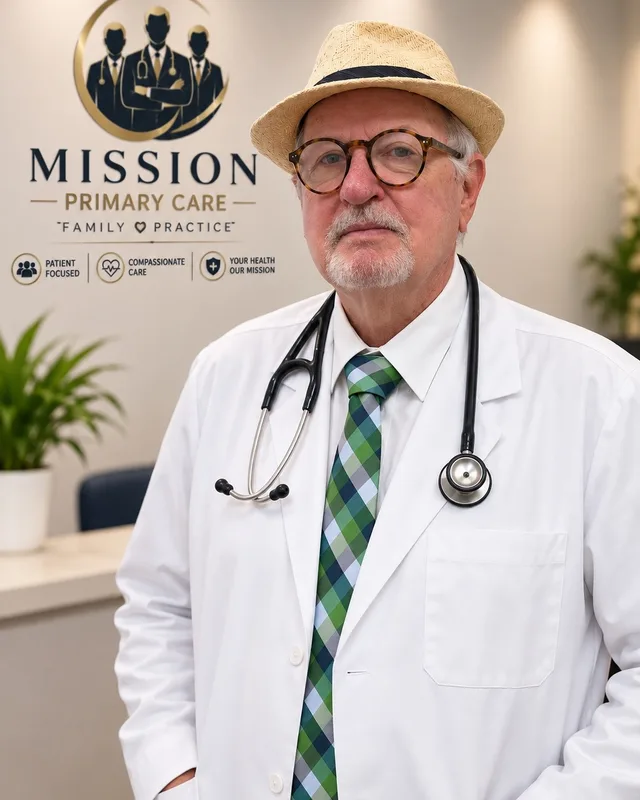
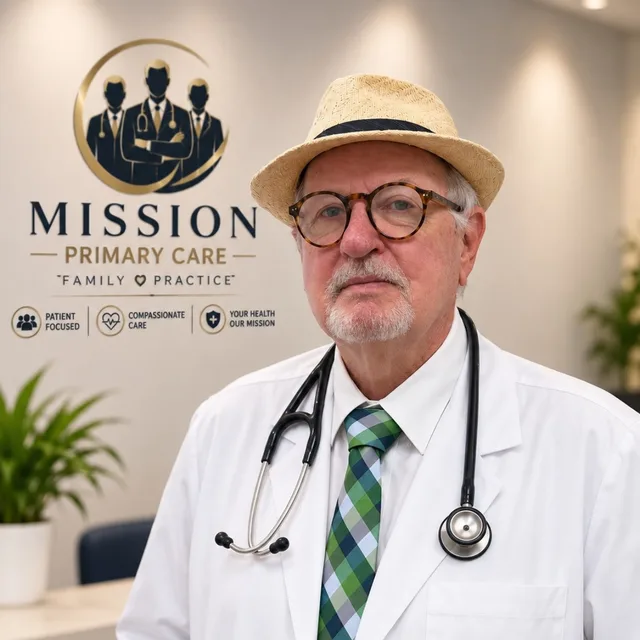
feat: rebuild the footer around link groups, refresh the portraits
The footer follows the reference layout: a photographic ground under a
navy wash, the brand and call to action in a wide first column, then
three columns that each stack two groups. Links go from 11 to 21, since
every service page and clinic is now reachable from the bottom of any
page.

The ground is a heavily blurred clinic frame. The unblurred photograph
put a half-lit face behind the text, which read badly. The wash is a
gradient, heaviest on the left so the logo knockout still blends against
near enough the flat surface colour. Its lightest point over a white
pixel leaves body text at 5.15:1, but the bottom bar had to come up from
#a2957c: fine at 5.51:1 on flat navy, only 3.57:1 with a photograph
behind it.

No social row and no subscribe form. The practice has no accounts on
file and no mail provider, and neither a link to an unverified account
nor a form that silently drops an address is worth shipping.

The five portraits are replaced from the newer square sources. The card
is square, so these need no cropping where the 2:3 originals did, and
each file is a few kilobytes smaller.

diff --git a/app/globals.css b/app/globals.css
@@ -32,7 +32,7 @@ button:focus-visible, a:focus-visible, input:focus-visible, select:focus-visible
 .resources-section { padding: 110px 0; background: var(--surface-dark); color: #eadfca; }.resource-grid { display: grid; grid-template-columns: .9fr 1.1fr; gap: 120px; }.resources-section h2 { color: #fff; }.resources-section .eyebrow { color: #d8ad58; }.resources-section p:not(.eyebrow) { color: #d9cdb4; line-height: 1.7; max-width: 405px; font-size: 16px; margin: 25px 0 30px; }.resource-list { border-top: 1px solid rgba(234,223,202,.28); }.resource-list > div { display: flex; align-items: center; gap: 25px; padding: 25px 0; border-bottom: 1px solid rgba(234,223,202,.28); }.resource-list > div > span:nth-child(2) { flex: 1; }.resource-list strong, .resource-list small { display: block; }.resource-list strong { color: #fff; font-size: 17px; }.resource-list small { color: #c3b493; margin-top: 7px; font-size: 14px; }.resource-number { color: #d8ad58; font-size: 14px; }.resource-list svg { color: #d8ad58; }
 .faq-section { padding: 110px 0; }.faq-grid { display: grid; grid-template-columns: .7fr 1.3fr; gap: 120px; }.faq-section h2 { margin-bottom: 22px; }.faq-section > .shell > div:first-child > p:not(.eyebrow) { color: var(--muted-foreground); font-size: 16px; line-height: 1.6; margin-bottom: 24px; }.faq-list { border-top: 1px solid var(--border); }.faq-item { border-bottom: 1px solid var(--border); }.faq-item button { width: 100%; display: flex; justify-content: space-between; gap: 15px; border: 0; background: transparent; cursor: pointer; padding: 22px 0; color: #181818; font-size: 18px; font-weight: 700; text-align: left; }.faq-item button svg { transition: transform .2s; }.faq-item.active button svg { transform: rotate(180deg); color: var(--primary); }.faq-item p { color: var(--muted-foreground); line-height: 1.7; font-size: 15px; margin: -7px 35px 22px 0; }
 .cta-section { padding: 65px 0; background: #eadfca; }.cta-inner { justify-content: space-between; }.cta-section h2 { font-size: 42px; }.cta-section .eyebrow { margin-bottom: 12px; }
-footer { position: relative; background: var(--surface-dark); padding: 70px 0 25px; } footer .footer-grid, .homepage-footer .footer-grid { display: grid; grid-template-columns: 1.3fr .7fr .9fr 1.1fr; align-items: start; gap: 45px; padding-bottom: 60px; } footer .footer-grid > div, .homepage-footer .footer-grid > div { display: flex; flex-direction: column; gap: 11px; } footer .footer-grid > div:last-child, .homepage-footer .footer-grid > div:last-child { display: flex; } footer:before { content: ''; position: absolute; left: 0; right: 0; top: 0; height: 2px; background: var(--accent); }.footer-grid { display: grid; grid-template-columns: 1.3fr .7fr .9fr 1.1fr; gap: 45px; padding-bottom: 60px; }.footer-grid > div { display: flex; flex-direction: column; gap: 11px; }.footer-brand { display: grid; place-items: center; width: 172px; height: 149px; margin-bottom: 8px; flex-shrink: 0; overflow: hidden; }.footer-bottom a { display: inline-flex; align-items: center; gap: 6px; white-space: nowrap; }.footer-brand img { width: 160px; height: 149px; object-fit: contain; mix-blend-mode: lighten; }.footer-grid p, .footer-grid span { color: #c3b493; font-size: 14px; line-height: 1.6; margin: 0; }.footer-grid strong { color: #fff; font-size: 14px; margin-bottom: 7px; }.footer-grid a { color: #d9cdb4; font-size: 14px; }.footer-grid a:hover { color: var(--accent); }.footer-bottom { border-top: 1px solid rgba(234,223,202,.16); padding-top: 20px; justify-content: space-between; color: #a2957c; font-size: 13px; }
+footer { position: relative; isolation: isolate; overflow: hidden; background: var(--surface-dark); padding: 70px 0 25px; } footer .footer-grid, .homepage-footer .footer-grid { display: grid; grid-template-columns: 1.3fr .7fr .9fr 1.1fr; align-items: start; gap: 45px; padding-bottom: 60px; } footer .footer-grid > div, .homepage-footer .footer-grid > div { display: flex; flex-direction: column; gap: 11px; } footer .footer-grid > div:last-child, .homepage-footer .footer-grid > div:last-child { display: flex; } footer:before { content: ''; position: absolute; left: 0; right: 0; top: 0; height: 2px; background: var(--accent); }.footer-grid { display: grid; grid-template-columns: 1.3fr .7fr .9fr 1.1fr; gap: 45px; padding-bottom: 60px; }.footer-grid > div { display: flex; flex-direction: column; gap: 11px; }.footer-brand { display: grid; place-items: center; width: 172px; height: 149px; margin-bottom: 8px; flex-shrink: 0; overflow: hidden; }.footer-bottom a { display: inline-flex; align-items: center; gap: 6px; white-space: nowrap; }.footer-brand img { width: 160px; height: 149px; object-fit: contain; mix-blend-mode: lighten; }.footer-grid p, .footer-grid span { color: #c3b493; font-size: 14px; line-height: 1.6; margin: 0; }.footer-grid strong { color: #fff; font-size: 14px; margin-bottom: 7px; }.footer-grid a { color: #d9cdb4; font-size: 14px; }.footer-grid a:hover { color: var(--accent); }.footer-bottom { border-top: 1px solid rgba(234,223,202,.16); padding-top: 20px; justify-content: space-between; color: #c3b493; font-size: 13px; }
 .pathway-section { padding: 94px 0; background: #fff; }.pathway-grid { display: grid; grid-template-columns: repeat(3, 1fr); border-top: 1px solid var(--border); }.pathway-card { padding: 28px 30px 8px 0; border-right: 1px solid var(--border); margin-right: 30px; }.pathway-card:last-child { border-right: 0; margin-right: 0; }.pathway-card > span { color: var(--primary-text); font-size: 14px; font-weight: 800; letter-spacing: .1em; }.pathway-card h3 { margin: 24px 0 10px; font-size: 24px; letter-spacing: -.04em; }.pathway-card p, .provider-card > p:last-of-type, .insurance-inner > div:first-child > p:last-child { color: var(--muted-foreground); font-size: 15px; line-height: 1.65; margin: 0; }.providers-section { padding: 108px 0; background: #efe6d6; }.provider-grid { display: grid; grid-template-columns: repeat(3, 1fr); gap: 18px; }.provider-card { position: relative; z-index: 0; overflow: hidden; background: #fff; padding: 28px; border: 1px solid var(--border); }.provider-watermark { position: absolute; z-index: -1; right: -20px; bottom: -20px; width: 168px; height: 168px; color: var(--primary); opacity: .15; pointer-events: none; }.provider-photo { display: block; width: calc(100% + 56px); margin: -28px -28px 24px; aspect-ratio: 1 / 1; object-fit: cover; object-position: center top; background: var(--secondary); }
 .provider-photo-empty { display: grid; place-items: center; color: var(--primary-deep); }
 .provider-team { grid-column: span 2; }
@@ -193,3 +193,19 @@ footer { position: relative; background: var(--surface-dark); padding: 70px 0 25
    Off-screen until focused, then it lands in the top-left corner. */
 .skip-link { position: absolute; left: -9999px; top: 0; z-index: 100; padding: 14px 20px; background: var(--surface-dark); color: #fffdf8; font-size: 15px; font-weight: 700; border-radius: 0 0 8px 0; }
 .skip-link:focus { left: 0; }
+
+/* ---- Footer: photograph behind a navy wash, brand column beside link groups ---- */
+/* The texture is a heavily blurred clinic scene: the unblurred frame put a
+   half-lit stock face behind the text. The wash stays heaviest on the left,
+   both so the logo knockout blends exactly and so the lightest point still
+   clears 5:1 against the body text. */
+.footer-media { position: absolute; inset: 0; z-index: -1;
+  background: linear-gradient(100deg, rgba(24,32,51,.97) 0%, rgba(24,32,51,.94) 38%, rgba(24,32,51,.88) 100%), url('/footer-texture.webp') center/cover no-repeat; }
+.footer-grid { grid-template-columns: 1.5fr 1fr 1.05fr 1.1fr; }
+.footer-brand-col { gap: 18px; }
+.footer-brand-col > p { max-width: 300px; }
+.footer-subhead { margin-top: 22px; }
+.footer-call { width: max-content; margin-top: 4px; }
+
+@media (max-width: 900px) { .footer-grid { grid-template-columns: repeat(2, 1fr); } }
+@media (max-width: 680px) { .footer-call { width: 100%; } }

diff --git a/components/clinic-shell.tsx b/components/clinic-shell.tsx
@@ -49,7 +49,37 @@ export function ClinicShell({ className, children }: { className?: string; child
 
       <main id="main-content" className={className}>{children}</main>
 
-      <footer className="homepage-footer site-footer"><div className="shell footer-grid"><div><Link className="footer-brand" href="/" aria-label="Mission Primary Care home"><Image src={LOGO_SRC} alt={LOGO_ALT} width={160} height={149} /></Link><p>Care for your whole health, close to home.</p></div><div><strong>Explore</strong>{nav.map(([href, label]) => <Link href={href} key={href}>{label}</Link>)}<Link href="/resources">Patient resources</Link></div><div><strong>Get in touch</strong>{LOCATIONS.map((location) => <span className="footer-address" key={location.city}><b>{location.city}</b></span>)}<a href={PHONE_TEL}>{PHONE}</a><span>Fax {FAX}</span><a href={`mailto:${EMAIL}`}>{EMAIL}</a><span>Please do not send medical information by email.</span></div><div><strong>Opening hours</strong><p>Monday to Friday, 9am–5pm.<br />Closed 12:30–1:30pm for lunch.<br />Closed weekends.</p><p>{AFTER_HOURS}</p></div></div><div className="shell footer-bottom"><span>© 2026 {BUSINESS_NAME}</span><a href={PHONE_TEL}>Call {PHONE} <ArrowRight size={13} /></a></div></footer>
+      <footer className="homepage-footer site-footer">
+        <div className="footer-media" aria-hidden="true" />
+        <div className="shell footer-grid">
+          <div className="footer-brand-col">
+            <Link className="footer-brand" href="/" aria-label="Mission Primary Care home"><Image src={LOGO_SRC} alt={LOGO_ALT} width={160} height={149} /></Link>
+            <p>Care for your whole health, close to home.</p>
+            <a className="button footer-call" href={PHONE_TEL}><Phone size={16} /> Call {PHONE}</a>
+          </div>
+          <div>
+            <strong>Explore</strong>
+            {nav.map(([href, label]) => <Link href={href} key={href}>{label}</Link>)}
+            <Link href="/resources">Patient resources</Link>
+            <strong className="footer-subhead">Opening hours</strong>
+            <p>Monday to Friday, 9am–5pm.<br />Closed 12:30–1:30pm for lunch.<br />Closed weekends.</p>
+          </div>
+          <div>
+            <strong>Care &amp; services</strong>
+            {services.map((service) => <Link href={`/services/${service.slug}`} key={service.slug}>{service.title}</Link>)}
+          </div>
+          <div>
+            <strong>Locations</strong>
+            {LOCATIONS.map((location) => <Link href="/contact" key={location.city}>{location.city}</Link>)}
+            <strong className="footer-subhead">Get in touch</strong>
+            <a href={PHONE_TEL}>{PHONE}</a>
+            <span>Fax {FAX}</span>
+            <a href={`mailto:${EMAIL}`}>{EMAIL}</a>
+            <span>Please do not send medical information by email.</span>
+          </div>
+        </div>
+        <div className="shell footer-bottom"><span>© 2026 {BUSINESS_NAME}</span><a href={PHONE_TEL}>Call {PHONE} <ArrowRight size={13} /></a></div>
+      </footer>
     </>
   )
 }
